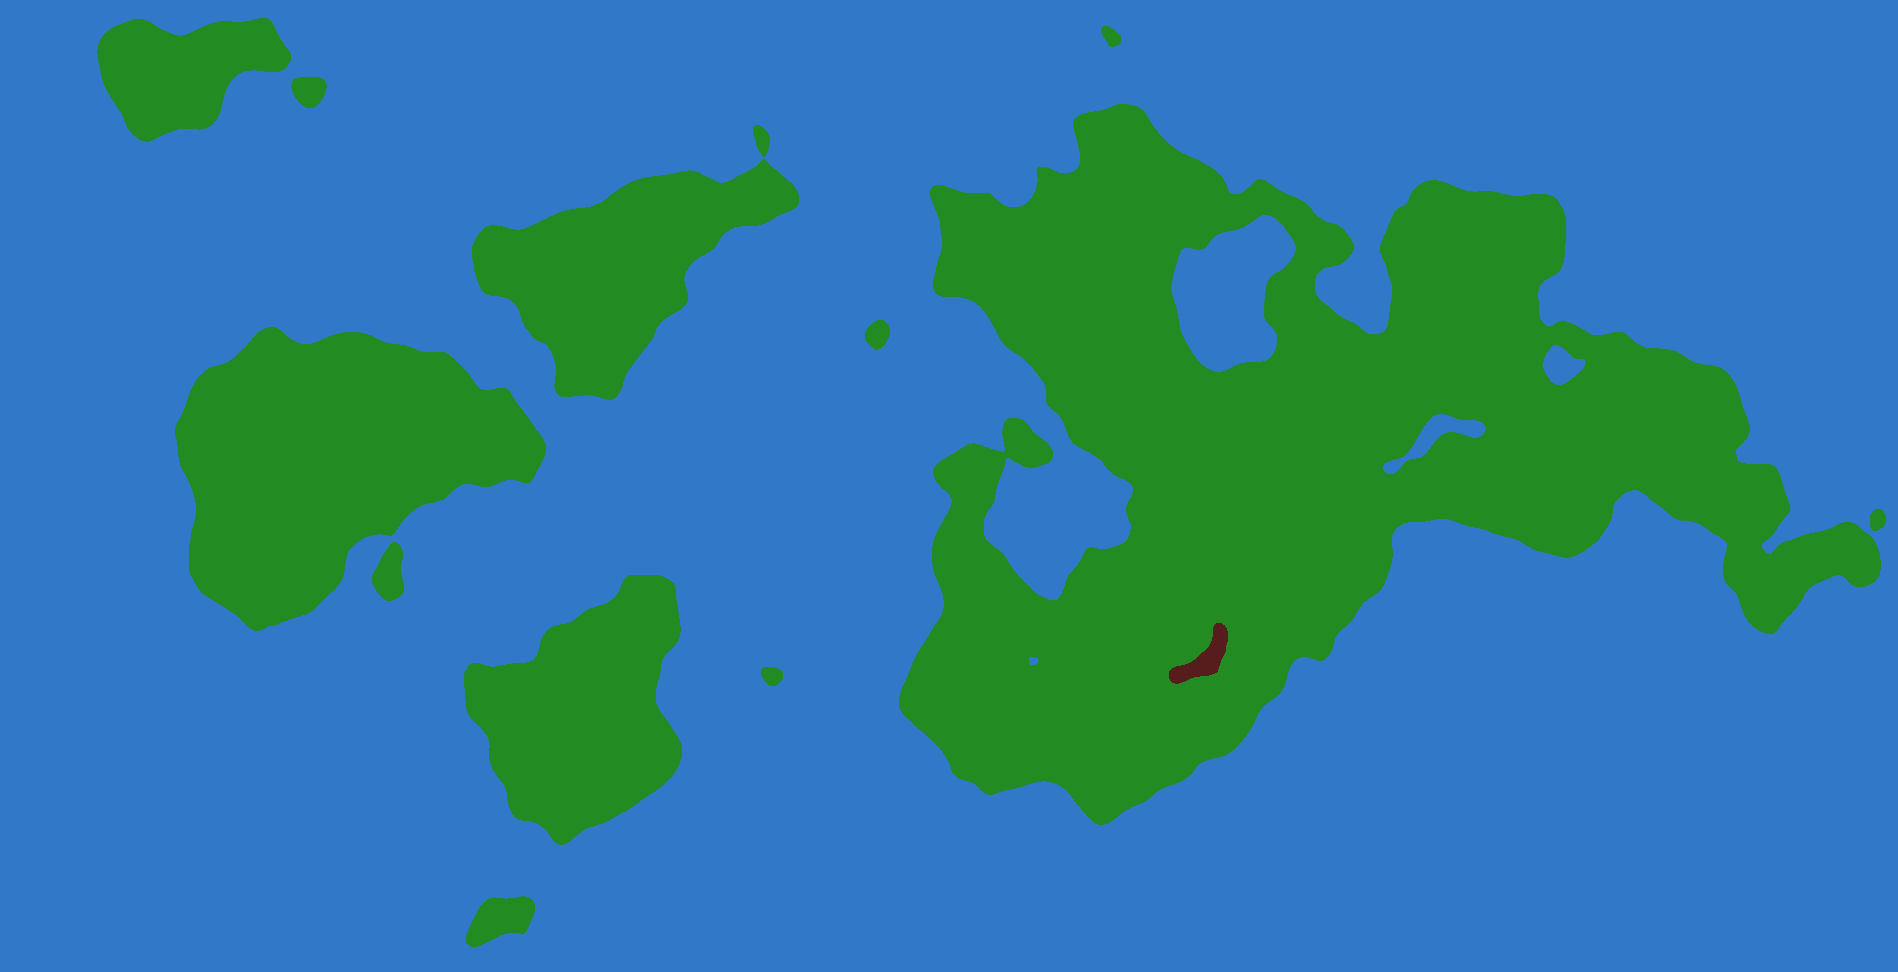
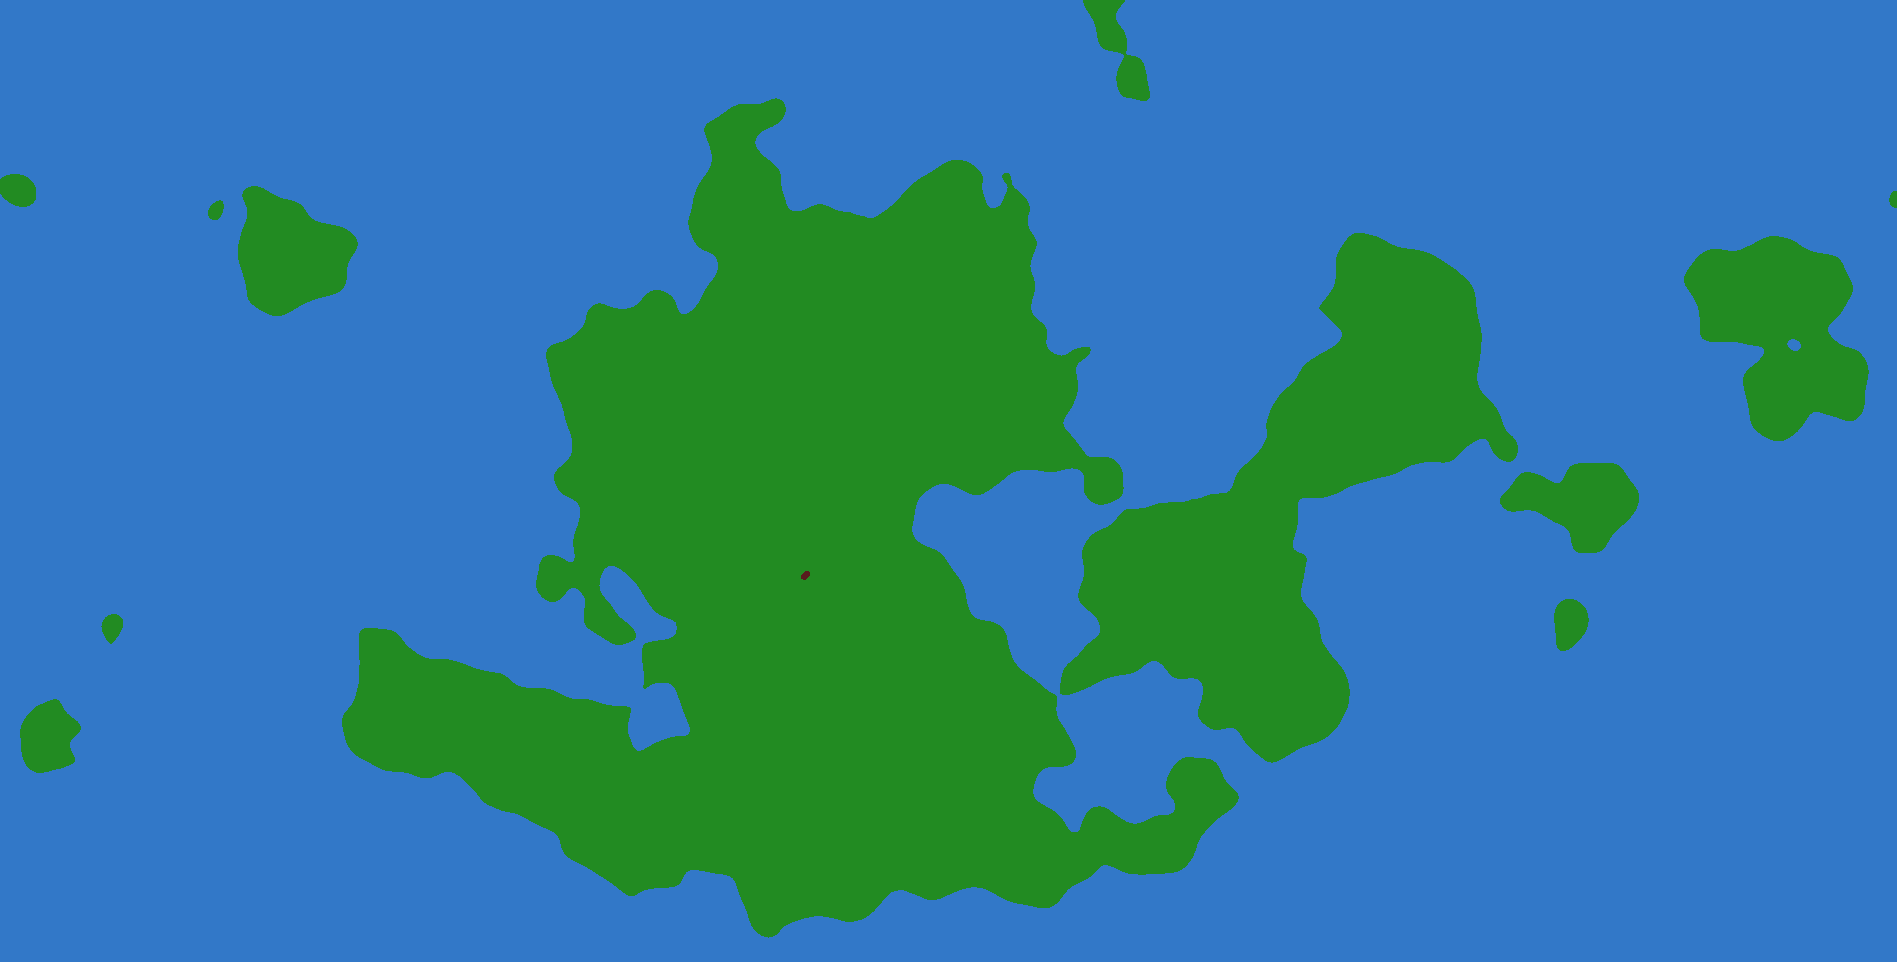
improve height_map generation

diff --git a/src/noise.rs b/src/noise.rs
@@ -1,4 +1,4 @@
-use noise::{Billow, Fbm, NoiseFn, Perlin, RidgedMulti, ScalePoint, Seedable, Turbulence};
+use noise::{Fbm, NoiseFn, Perlin, ScalePoint, Seedable, Simplex};
 
 // Noise generation using Perlin noise
 
@@ -6,39 +6,58 @@ use noise::{Billow, Fbm, NoiseFn, Perlin, RidgedMulti, ScalePoint, Seedable, Tur
 pub struct NoiseGenerator {
     pub seed: u32,
     pub perlin: Perlin,
-    pub fbm: Fbm<Perlin>,
-    pub scale: f64,
+    pub continent_scale: f64,
+    pub detail_scale: f64,
+    pub continent_fbm: Fbm<Perlin>,
+    pub detail_fbm: Fbm<Simplex>,
 }
 
 impl NoiseGenerator {
     pub fn new(seed: u32) -> Self {
         let perlin = Perlin::new(seed);
-        let scale: f64 = 0.003;
-
-        let mut fbm = Fbm::<Perlin>::new(seed);
-        fbm.frequency = 1.0;
-        fbm.lacunarity = 2.0;
-        fbm.persistence = 0.5;
-        fbm.octaves = 4;
+        
+        let continent_scale: f64 = 0.004;
+        let mut continent_fbm: Fbm<Perlin> = Fbm::new(seed);
+        continent_fbm.frequency = 1.0;
+        continent_fbm.lacunarity = 2.1;
+        continent_fbm.persistence = 0.55;
+        continent_fbm.octaves = 6;
+        
+        let detail_scale: f64 = 0.015;
+        let mut detail_fbm: Fbm<Simplex> = Fbm::new(seed + 1);
+        detail_fbm.frequency = 1.0;
+        detail_fbm.lacunarity = 2.0;
+        detail_fbm.persistence = 0.5;
+        detail_fbm.octaves = 5;
 
         Self {
             seed,
             perlin,
-            fbm,
-            scale,
+            continent_scale,
+            detail_scale,
+            continent_fbm,
+            detail_fbm,
         }
     }
 
     // Basic height map generation using FBM
-    pub fn height_map(&self, x: f32, y: f32) -> f32 {
-        let height_noise = ScalePoint::new(self.fbm.clone()).set_scale(self.scale);
-        ((height_noise.get([x as f64, y as f64]) + 1.0) * 0.5) as f32
+    pub fn continent_map(&self, x: f32, y: f32) -> f32 {
+        let scale_x = x as f64 * self.continent_scale;
+        let scale_y = y as f64 * self.continent_scale;
+        (self.continent_fbm.get([scale_x, scale_y]) * 0.5 + 0.5) as f32
+    }
+
+    // Detailed height variations using another FBM
+    pub fn detail_map(&self, x: f32, y: f32) -> f32 {
+        let scale_x = x as f64 * self.detail_scale;
+        let scale_y = y as f64 * self.detail_scale;
+        (self.detail_fbm.get([scale_x, scale_y]) * 0.5 + 0.5) as f32
     }
 
     // Temperature noise for biome generation
     pub fn temperature_noise(&self, x: f32, y: f32) -> f32 {
-        let temp_noise =
-            ScalePoint::new(self.perlin.clone().set_seed(self.seed + 1)).set_scale(self.scale);
-        ((temp_noise.get([x as f64, y as f64]) + 1.0) * 0.5) as f32
+        let scale_x = x as f64 * self.continent_scale;
+        let scale_y = y as f64 * self.continent_scale;
+        (self.perlin.get([scale_x, scale_y]) * 0.5 + 0.5) as f32
     }
 }

diff --git a/src/ui.rs b/src/ui.rs
@@ -28,7 +28,7 @@ impl WorldGenApp {
         let mut pixels = vec![egui::Color32::BLACK; width * height];
 
         let water_level: f32 = 0.30;
-        let mountain_level: f32 = 0.60;
+        let mountain_level: f32 = 0.72;
 
         for i in 0..(width) {
             for j in 0..(height) {
@@ -36,24 +36,24 @@ impl WorldGenApp {
 
                 let base = if h < water_level {
                     egui::Color32::from_rgb(50, 120, 200)
-                } else if h > mountain_level {
+                } else if h < mountain_level {
+                    egui::Color32::from_rgb(34, 139, 34)
+                } else if h < 0.95 {
                     egui::Color32::from_rgb(87, 29, 29)
                 } else {
-                    egui::Color32::from_rgb(34, 139, 34)
+                    egui::Color32::from_rgb(255, 250, 250)
                 };
 
                 let final_color = if self.temperature {
                     let t = self.map.grid.get_temperature_at(i, j);
                     let overlay = if t < 0.25 {
                         egui::Color32::from_rgb(0, 0, 255)
-                    } else if t < 0.5 {
+                    } else if t < 0.60 {
                         egui::Color32::from_rgb(0, 255, 255)
                     } else if t < 0.75 {
                         egui::Color32::from_rgb(255, 255, 0)
-                    } else if t < 1.0 {
+                    } else{
                         egui::Color32::from_rgb(255, 0, 0)
-                    } else {
-                        egui::Color32::from_rgb(128, 128, 128)
                     };
                     egui::Color32::from_rgb(
                         ((base.r() as u16 + overlay.r() as u16) / 2) as u8,
@@ -65,7 +65,8 @@ impl WorldGenApp {
                 };
 
             pixels[j * width + i] = final_color;
-        }}
+            }
+        }
 
         let image = egui::ColorImage {
             size: [width, height],
@@ -102,7 +103,8 @@ impl eframe::App for WorldGenApp {
         egui::TopBottomPanel::top("top_controls").show(ctx, |ui| {
             ui.horizontal(|ui| {
                 ui.label(format!("Size: {}x{}", self.map.width, self.map.height));
-
+                ui.label(format!("Seed: {}", self.map.grid.get_seed()));
+               
                 if ui.button("New Map").clicked() {
                     match World::new(self.map.width, self.map.height) {
                         Ok(new_map) => {
@@ -114,7 +116,7 @@ impl eframe::App for WorldGenApp {
                     }
                     self.dirty = true;
                 }
-                if ui.button("Toggle Temperature").clicked() {
+                if ui.button("Show Temperature").clicked() {
                     self.temperature = !self.temperature;
                     self.dirty = true;
                 }

diff --git a/src/grid.rs b/src/grid.rs
@@ -83,12 +83,22 @@ impl Grid {
 }
 
 fn elevation(x: f32, y: f32, width: f32, height: f32, noise: &NoiseGenerator) -> f32 {
-    // Elevation calculation based on the center of the map and noise
-    let elevation = noise.height_map(x, y);
-    let dx = (x - (width / 2.0)) / 2.0;
-    let dy = y - (height / 2.0);
-    let distance = ((dx * dx + dy * dy).sqrt()) / (width / 2.0) * 0.5;
-    (elevation - distance * 1.50).clamp(0.0, 1.0)
+    // Elevation calculation combining continent and detail noise with distance falloff
+    const SEA_LEVEL: f32 = 0.30; 
+    const MARGIN_X: f32 = 0.8;
+    const MARGIN_Y: f32 = 1.0;
+    const FALLOFF: f32 = 0.45;
+    const DETAIL_FACTOR: f32 = 0.425;
+    
+    let continent = noise.continent_map(x, y);
+
+    let distance = distance(x, y, width, height, MARGIN_X, MARGIN_Y);
+    let mut elevation = continent - distance * FALLOFF;
+    if SEA_LEVEL < elevation {
+        let detail = noise.detail_map(x, y);
+        elevation += detail * DETAIL_FACTOR;
+    }
+    elevation.clamp(0.0, 1.0)
 }
 
 fn temperature(x: f32, y: f32, height: f32, altitude: f32, noise: &NoiseGenerator) -> f32 {
@@ -100,11 +110,19 @@ fn temperature(x: f32, y: f32, height: f32, altitude: f32, noise: &NoiseGenerato
     (0.6 * lat_temp + 0.2 * alt_temp + 0.2 * noise_temp).clamp(0.0, 1.0)
 }
 
+fn distance(x: f32, y: f32, width: f32, height: f32, margin_x: f32, margin_y: f32) -> f32 {
+    let cx = (width - 1.0) * 0.5;
+    let cy = (height - 1.0) * 0.5;
+    let rx = cx / margin_x;
+    let ry = cy / margin_y;
+    let nx = ((x - cx) / rx).abs(); 
+    let ny = ((y - cy) / ry).abs();
+    ((nx * nx + ny * ny).sqrt()).min(1.0)
+}
 
 #[cfg(test)]
 mod tests {
     use super::*;
-
     #[test]
     fn test_grid_creation() {
         let grid = Grid::new(10, 10).unwrap();
@@ -113,13 +131,11 @@ mod tests {
         assert_eq!(grid.height_map.len(), 100);
         assert_eq!(grid.temperature_map.len(), 100);
     }
-
     #[test]
     fn test_invalid_grid_creation() {
         let result = Grid::new(0, 10);
         assert!(result.is_err());
     }
-
     #[test]
     fn test_height_and_temperature_generation() {
         let mut grid = Grid::new(10, 10).unwrap();
@@ -133,7 +149,6 @@ mod tests {
             }
         }
     }
-
     #[test]
     fn test_get_seed() {
         let grid = Grid::new(10, 10).unwrap();

diff --git a/src/main.rs b/src/main.rs
@@ -3,7 +3,7 @@ use worldgen::world::World;
 use anyhow::Result;
 
 fn main() -> Result<()> {
-    let world = World::new(1920, 1000)?;
+    let world = World::new(1900, 980)?;
     let app = WorldGenApp::new(world);
     let _ = eframe::run_native(
         "World Generation Biomes",

diff --git a/README.md b/README.md
@@ -10,7 +10,7 @@ This project is mainly a way for me to **learn Rust** by building something fun 
 
 **Height map**  
 Defines the seas, continents and islands.
-![Height map](images/map1.png)
+![Height map](images/map2.png)
 
 **Temperature map**  
 Shows climate across the map based on latitude and noise.
